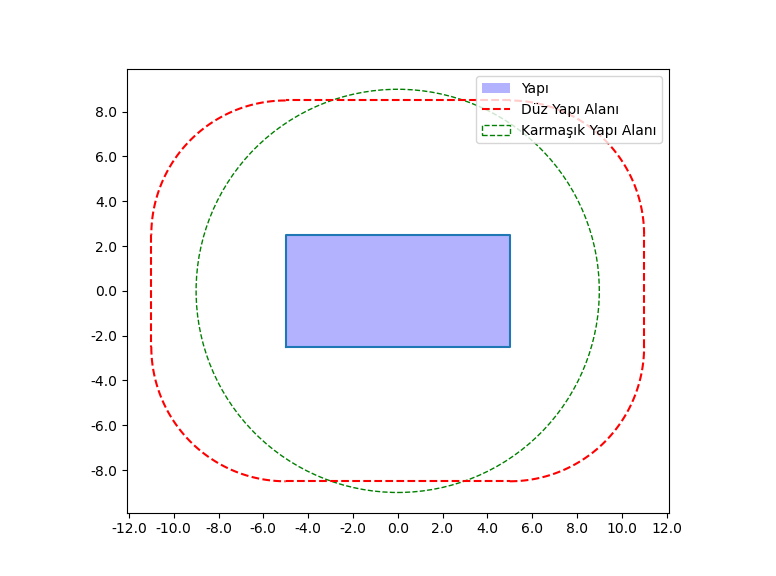
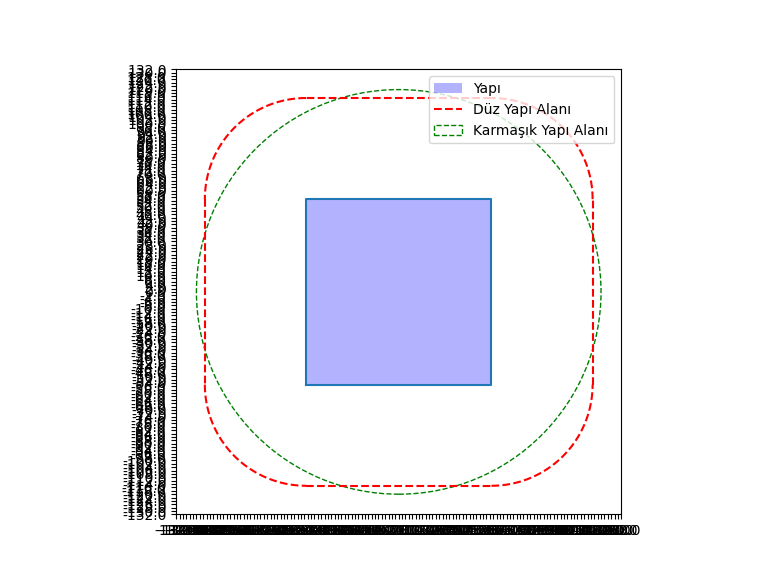
as

diff --git a/endson v2/pdf_app_1.py b/endson v2/pdf_app_1.py
@@ -10,6 +10,12 @@ proje_no = "1518484"
 uzunluk = 120 
 genişlik = 155 
 yükseklik = 30
+yükseklik_max = 60
+yıldırım_yoğunluğu = 5
+yapı_konum = "su deposu in mekke"
+yapı_AD_alan = 5000
+ayrık_yapı_AD_alan = 300
+c_dj = "sadad"
 
 
 # HTML içeriği
@@ -886,8 +892,8 @@ html_content_7 = f"""
 
         <div class="subsection"> <!-- Alt bölüm -->
             <h3>4.2 Geographic and building parameters</h3> <!-- Alt bölüm başlığı -->
-            <p>The ground flash density Ng is the basis for a risk analysis according to IEC 62305-2:2010-12. It defines the number of direct lightning strikes in 1 year / km². A value of 2,00 lightning strikes / year / km² was determined for the location of the object STEEL WATER STORAGES IN MOASIM/MAKKAH by means of the ground flash density map. As a result, there is a calculated number of 20,00 of thunderstorm days per year for the location of the project.</p>
-            <p>The dimensions of the building are decisive for the risk of a direct strike. The collection areas for direct / indirect lightning strikes are determined based on these dimensions. The structure STEEL WATER STORAGES IN MOASIM/MAKKAH has the following dimensions:</p>
+            <p>The ground flash density Ng is the basis for a risk analysis according to IEC 62305-2:2010-12. It defines the number of direct lightning strikes in 1 year / km². A value of 2,00 lightning strikes / year / km² was determined for the location of the object {yapı_konum} by means of the ground flash density map. As a result, there is a calculated number of 20,00 of thunderstorm days per year for the location of the project.</p>
+            <p>The dimensions of the building are decisive for the risk of a direct strike. The collection areas for direct / indirect lightning strikes are determined based on these dimensions. The structure {yapı_konum} has the following dimensions:</p>
             <p>L<sub>b</sub> Length: {uzunluk}/p>
             <p>W<sub>b</sub> Width: {genişlik}</p>
         </div>
@@ -983,19 +989,19 @@ html_content_8 = f"""
     </div>
     <div class="content"> <!-- İçerik bölümü -->
         <p><strong>Hb Height:</strong> {yükseklik}</p>
-        <p><strong>Hpb Highest point (if applicable):</strong> 40,00 m</p>
-        <p>This results in a calculated collection area for direct lightning strikes of 49.809,00 m² and for indirect lightning strikes (near the structure) of 1.005.398,00 m².</p>
+        <p><strong>Hpb Highest point (if applicable):</strong> {yükseklik_max}</p>
+        <p>This results in a calculated collection area for direct lightning strikes of {yapı_AD_alan} m² and for indirect lightning strikes (near the structure) of {ayrık_yapı_AD_alan} m².</p>
         <div class="image-section"> <!-- Görsel bölümü -->
             <img src="path_to_image/graph.png" alt="Graph Image"> <!-- Görsel -->
         </div>
-        <p>The environment surrounding the structure is an important factor for determining the number of direct / indirect lightning strikes. It was defined as follows for the building STEEL WATER STORAGES IN MOASIM/MAKKAH</p>
+        <p>The environment surrounding the structure is an important factor for determining the number of direct / indirect lightning strikes. It was defined as follows for the building {yapı_konum}</p>
         <p><strong>Relative location Cd:</strong> 2,00</p>
         <p>If the ground flash density is referred to the size and the environment of the structure, a frequency of direct strikes Nd to the structure of 0,1992 strikes / year and indirect strikes near the structure of 2,0108 strikes / year is to be expected.</p>
         <h3>4.3 Division of the structure into lightning protection zones/zones</h3> <!-- Alt bölüm başlığı -->
-        <p>The structure STEEL WATER STORAGES IN MOASIM/MAKKAH was not divided into lightning protection zones / zones.</p>
+        <p>The structure {yapı_konum} was not divided into lightning protection zones / zones.</p>
         <h3>5. Supply lines</h3> <!-- Alt bölüm başlığı -->
         <p>All incoming and outgoing supply lines of the structure to be considered must be taken into account in the risk analysis. Conductive pipes do not have to be considered if they are connected to the main earthing busbar of the structure. If this is not the case, the risk of incoming pipes should be considered in the risk analysis (observe that equipotential bonding is required!).</p>
-        <p>The following supply lines were considered for the structure STEEL WATER STORAGES IN MOASIM/MAKKAH in the risk analysis:</p>
+        <p>The following supply lines were considered for the structure {yapı_konum} in the risk analysis:</p>
     </div>
     <div class="footer"> <!-- Footer bölümü -->
         <img src="images/logo.png" alt="Radsan Logo" width="80" height="35"> <!-- Footer'da yer alan logo resmi -->
@@ -1238,7 +1244,7 @@ html_content_10 = f"""
                 </tr>
             </table>
 
-            <p>As a result, the calculated collection area for lightning strikes to the connected structure is 49.809,00 m².</p>
+            <p>As a result, the calculated collection area for lightning strikes to the connected structure is {yapı_AD_alan} m².</p>
 
             <div class="image-section">
                 <img src="lightning-collection-area.png" alt="Lightning Collection Area">
@@ -1371,7 +1377,7 @@ html_content_11 = f"""
             <li>Explosion: zone 1 / 21</li>
             <li>Explosion: zone 0 / 20</li>
         <ul>
-        <p>The risk of fire in a structure is an important factor for determining the required protection measures. The risk of fire for the structure STEEL WATER STORAGES IN MOASIM/MAKKAH was defined as follows:</p>
+        <p>The risk of fire in a structure is an important factor for determining the required protection measures. The risk of fire for the structure {yapı_konum} was defined as follows:</p>
         <ul>
             <li>No risk of fire or explosion</li>
         <ul>
@@ -1381,21 +1387,21 @@ html_content_11 = f"""
             <li>No measures</li>
         </ul>
         <h2>6.3 Special hazards in the building for persons</h2>
-        <p>Due to the number of persons, the possible risk of panic for the structure STEEL WATER STORAGES IN MOASIM/MAKKAH was defined as follows:</p>
+        <p>Due to the number of persons, the possible risk of panic for the structure {yapı_konum} was defined as follows:</p>
         <ul>
             <li>No special hazard</li>
         </ul>
         <h2>6.4 External spatial shielding</h2>
         <p>Spatial shielding attenuates the magnetic field within a structure caused by lightning strikes to or near the object and reduces internal surges.</p>
         <p>This can be achieved by an intermeshed equipotential bonding network in which all conductive parts of the structure and the internal systems are integrated. Consequently, the external / internal spatial shield is only a part of a shielded building structure. It must be observed that metal coverings and claddings are connected to one another and conductively to the equipotential bonding of the building. In this context, the relevant normative requirements must be observed.</p>
-        <p>Covering of the structure STEEL WATER STORAGES IN MOASIM/MAKKAH:</p>
+        <p>Covering of the structure {yapı_konum}:</p>
         <ul>
             <li>No shielding</li>
         </ul>
         <h2>7. Risk assessment</h2>
         <p>As described in 4.1, the following risks according to 7. were assessed. The blue bar shows the tolerable risk value and the green / red bar shows the risk determined.</p>
         <h3>7.1 Risk R1, Human life</h3>
-        <p>The following risk was determined for persons outside and inside the structure STEEL WATER STORAGES IN MOASIM/MAKKAH:</p>
+        <p>The following risk was determined for persons outside and inside the structure {yapı_konum}:</p>
         <ul>
             <li>Tolerable risk R<sub>T</sub>: 1,00E-05</li>
             <li>Calculated risk R1 (unprotected): 0,00E00</li>
@@ -1524,7 +1530,7 @@ html_content_12 = f"""
         <p>To reduce the risk, it is necessary to take measures as described in 8.</p>
 
         <h2>7.2 Risk R2, Service to the public</h2>
-        <p>The risk R2, failure of services to the public, was determined for the structure <strong>STEEL WATER STORAGES IN MOASIM/MAKKAH</strong> as follows:</p>
+        <p>The risk R2, failure of services to the public, was determined for the structure <strong>{yapı_konum}</strong> as follows:</p>
         <ul>
             <li>Tolerable risk R<sub>T</sub>: 1,00E-03</li>
             <li>Calculated risk R2 (unprotected): 0,00E00</li>
@@ -1657,7 +1663,7 @@ html_content_13 = f"""
         <p>Risk analysis for assessing the risk for structures<br>according to IEC 62305-2:2010-12</p> <!-- Açıklama metni -->
         
         <h2>7.3 Risk R3, Cultural heritage</h2>
-        <p>The risk R3, loss of cultural heritage, was determined for the structure <strong>STEEL WATER STORAGES IN MOASIM/MAKKAH</strong> as follows:</p>
+        <p>The risk R3, loss of cultural heritage, was determined for the structure <strong>{yapı_konum}</strong> as follows:</p>
         <ul>
             <li>Tolerable risk R<sub>T</sub>: 1,00E-04</li>
             <li>Calculated risk R3 (unprotected): 0,00E00</li>
@@ -1677,7 +1683,7 @@ html_content_13 = f"""
         <p>To reduce the risk, it is necessary to take measures as described in 8.</p>
 
         <h2>7.3 Risk R4, Economic</h2>
-        <p>The risk R3, loss of cultural heritage, was determined for the structure <strong>STEEL WATER STORAGES IN MOASIM/MAKKAH</strong> as follows:</p>
+        <p>The risk R3, loss of cultural heritage, was determined for the structure <strong>{yapı_konum}</strong> as follows:</p>
         <ul>
             <li>Tolerable risk R<sub>T</sub>: 1,00E-04</li>
             <li>Calculated risk R3 (unprotected): 0,00E00</li>

diff --git a/endson v2/cizim.py b/endson v2/cizim.py
@@ -90,10 +90,10 @@ class MainWindow(QMainWindow):
         self.plot()
 
     def plot(self):
-        l = 10  # Length
-        w = 5   # Width
-        h = 2   # Height (min value)
-        hp = 3 # Karmaşık yapı çıkıntı yüksekliği
+        l = 110  # Length
+        w = 110   # Width
+        h = 20   # Height (min value)
+        hp = 40 # Karmaşık yapı çıkıntı yüksekliği
 
         calculation = Calculation()
         area = calculation.Ad_grafik(l, w, h)
